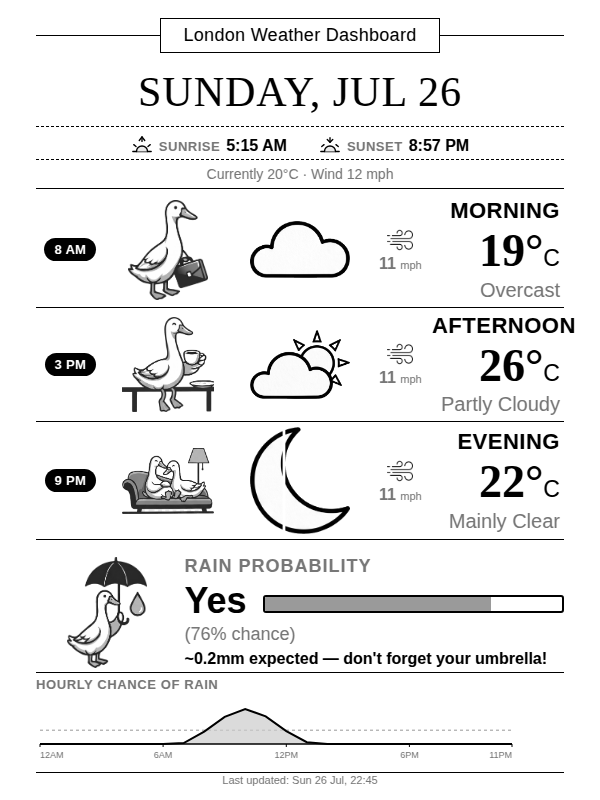
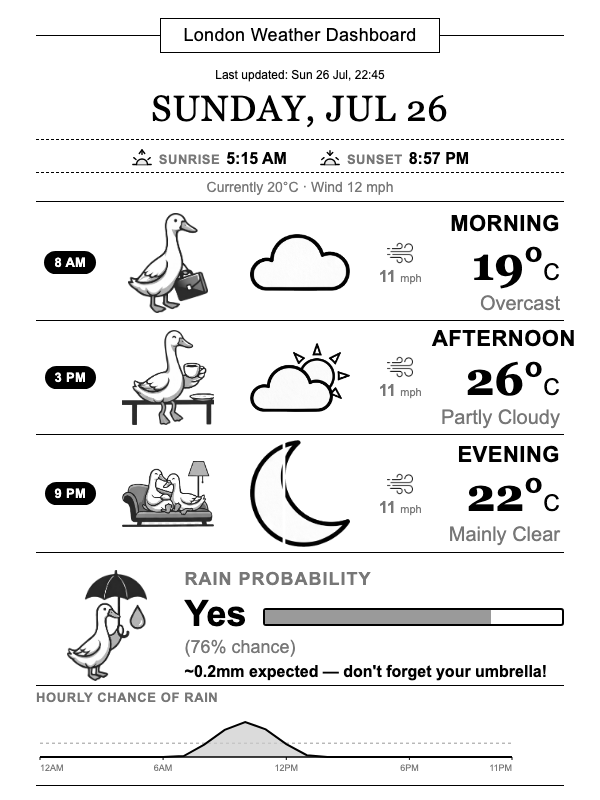
Move last-updated to the top (in black) instead of the bottom
Shrunk the date font slightly to make room. Bottom now just ends with
the existing footer line after the rain section.

diff --git a/dashboard_template.html b/dashboard_template.html
@@ -42,9 +42,15 @@
     letter-spacing: 0.3px;
   }
 
+  .last-updated-top {
+    font-size: 12px;
+    color: #000000;
+    text-align: center;
+    margin-bottom: 6px;
+  }
   .date {
     font-family: Georgia, 'Liberation Serif', 'Times New Roman', serif;
-    font-size: 42px;
+    font-size: 36px;
     letter-spacing: 1px;
     text-align: center;
     margin-bottom: 10px;
@@ -243,13 +249,6 @@
     border-top: 1px solid #000000;
     margin-top: 10px;
   }
-  .last-updated {
-    font-size: 11px;
-    line-height: 1;
-    color: #777777;
-    text-align: center;
-    margin-top: 2px;
-  }
 </style>
 </head>
 <body>
@@ -259,6 +258,7 @@
     <div class="header-box">{{LOCATION}} Weather Dashboard</div>
   </div>
 
+  <div class="last-updated-top">Last updated: {{LAST_UPDATED}}</div>
   <div class="date">{{DATE}}</div>
   <div class="dashed"></div>
 
@@ -290,7 +290,6 @@
   {{RAIN_CHART}}
 
   <div class="footer-line"></div>
-  <div class="last-updated">Last updated: {{LAST_UPDATED}}</div>
 
 </div>
 </body>

diff --git a/weather.py b/weather.py
@@ -1,5 +1,6 @@
 import base64
 import datetime
+import time
 from pathlib import Path
 
 import requests
@@ -159,7 +160,19 @@ url = (
 )
 
 print("Fetching weather...")
-data = requests.get(url).json()
+# Open-Meteo occasionally returns a malformed/error response with no
+# retry-after info (seen in practice: a bare {"error": ...} with no
+# "hourly" key at all) - a couple of retries handles the transient case
+# without needing to understand exactly why it happened.
+for attempt in range(3):
+    data = requests.get(url).json()
+    if "hourly" in data and "current" in data and "daily" in data:
+        break
+    print(f"Unexpected response (attempt {attempt + 1}/3): {data}")
+    if attempt < 2:
+        time.sleep(5)
+else:
+    raise RuntimeError(f"Open-Meteo didn't return usable data after 3 attempts: {data}")
 
 hourly_time = data["hourly"]["time"]
 hourly_temp = data["hourly"]["temperature_2m"]
